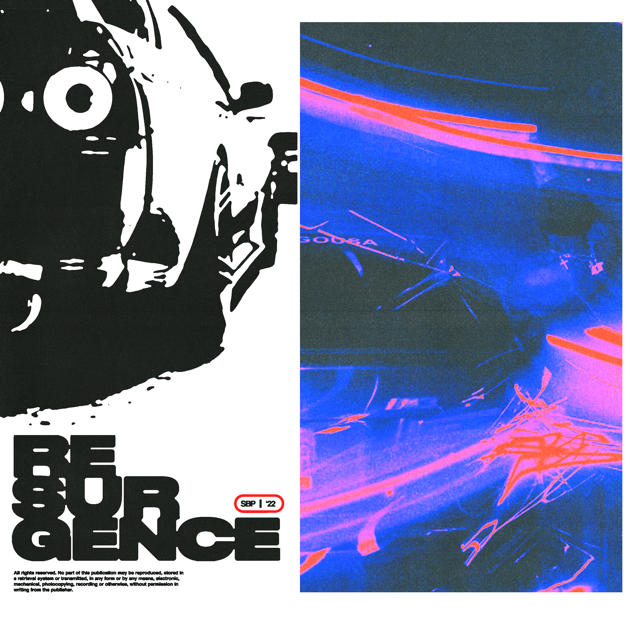
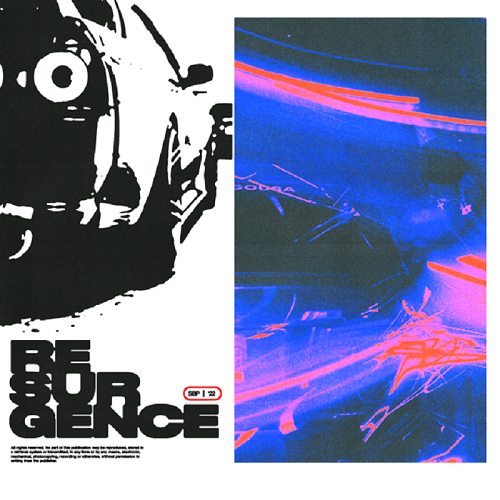
Fixed carousel

diff --git a/info.html b/info.html
@@ -44,8 +44,9 @@
           <a role="button" href="info.html"
             ><img
               src="./images/transparent-tensai-logo.png"
-              width="55px"
-              height="55px"
+              width="55"
+              height="55"
+              alt="japanese character tensai"
           /></a>
         </div>
         <div class="shopping-cart">
@@ -54,8 +55,8 @@
       </div>
     </header>
     <main>
-      <section>
-        <h1>Welcome to Infinity!</h1>
+      <h1>Welcome to Infinity!</h1>
+      <div class="small-carousel">
         <div
           id="carouselExampleFade"
           class="carousel slide carousel-fade"
@@ -103,12 +104,12 @@
             <span class="visually-hidden">Next</span>
           </button>
         </div>
-        <p>
-          Welcome to my palace. Here you will find informantion about me,
-          promotion for me and my fellow kings, and my marketplace. Take your
-          time and more importantly enjoy your time here.
-        </p>
-      </section>
+      </div>
+      <p>
+        Welcome to my palace. Here you will find informantion about me,
+        promotion for me and my fellow kings, and my marketplace. Take your time
+        and more importantly enjoy your time here.
+      </p>
     </main>
     <footer class="my-footer">
       <div class="container-footer">

diff --git a/css/styles.css b/css/styles.css
@@ -10,7 +10,13 @@ header {
 
 main {
  margin: 0 auto;
- padding: 15px 10px;
+ padding: 15px 0 15px 0;
+}
+
+.carousel {
+    margin: auto;
+    width: 25em;
+    height: 25em;
 }
 
 /* Dropdown settings */
@@ -87,7 +93,7 @@ main {
     display: inline-block;
     color: white;
     text-decoration: none;
-    transition: color .5 ease;
+    transition: color .5s ease;
     font-size: medium;
 }
 
@@ -124,11 +130,14 @@ p {
 }
 
 .my-footer {
+    display: flex;
     background-color: rgb(50, 50, 54);
     position: absolute;
     bottom: 0;
     width: 100%;
     height: auto;
+    align-content: flex-end;
+    flex-wrap: wrap;
 
 }
 
